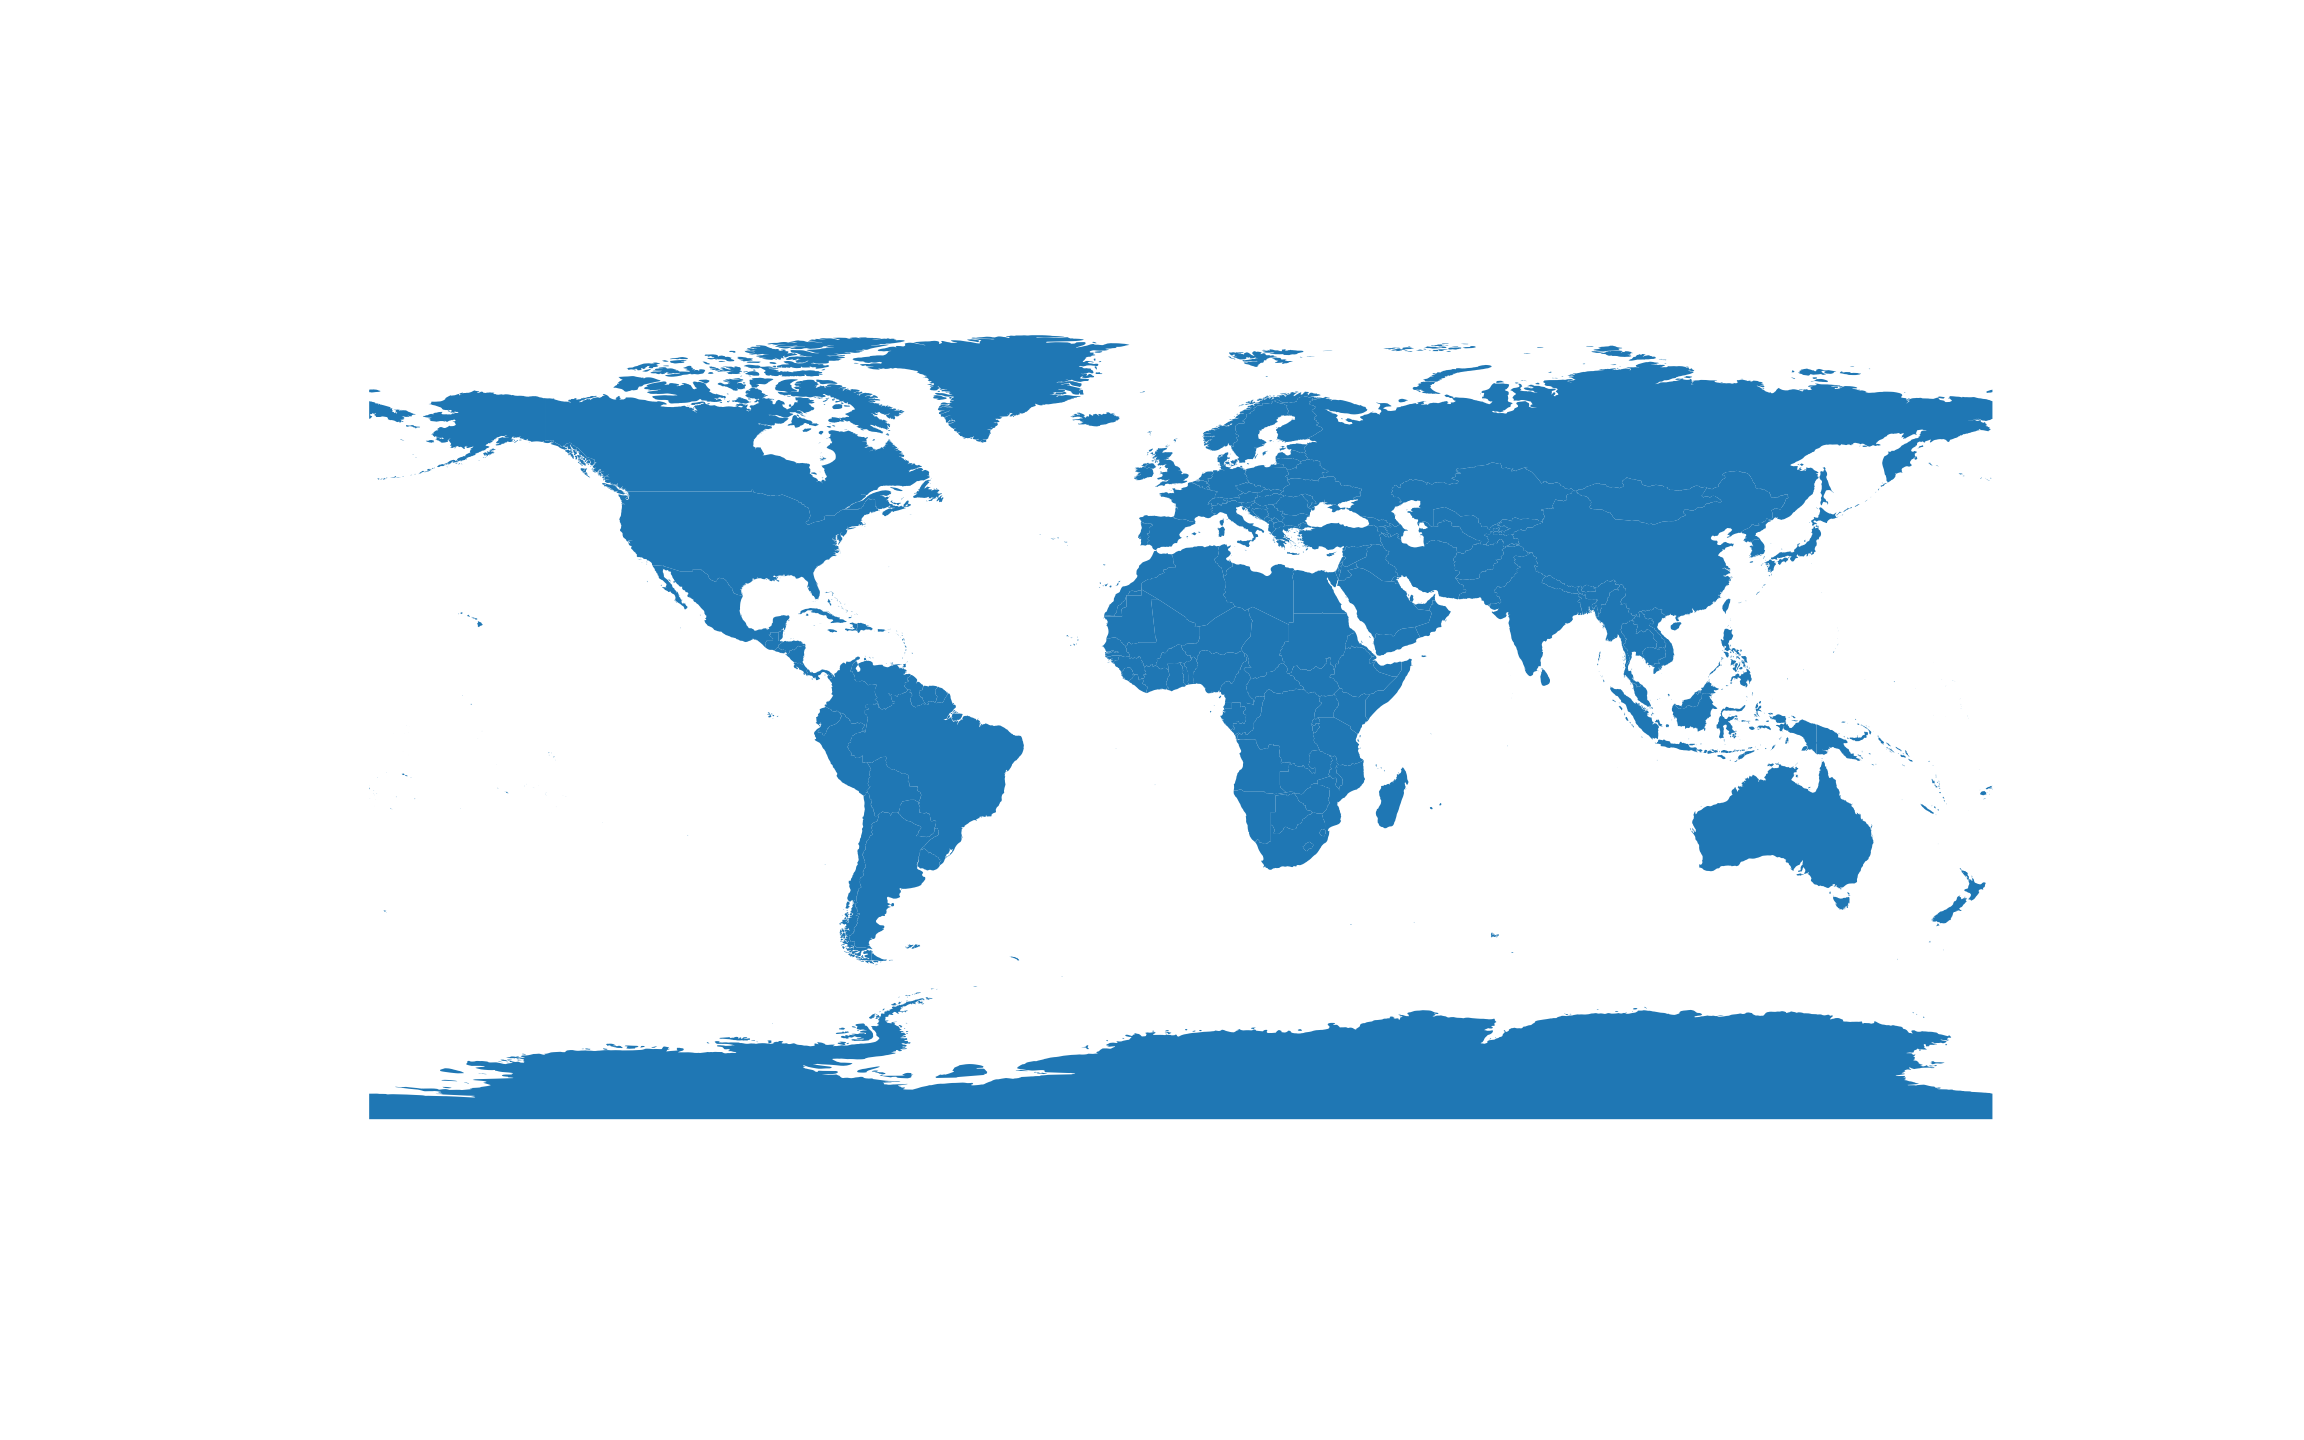
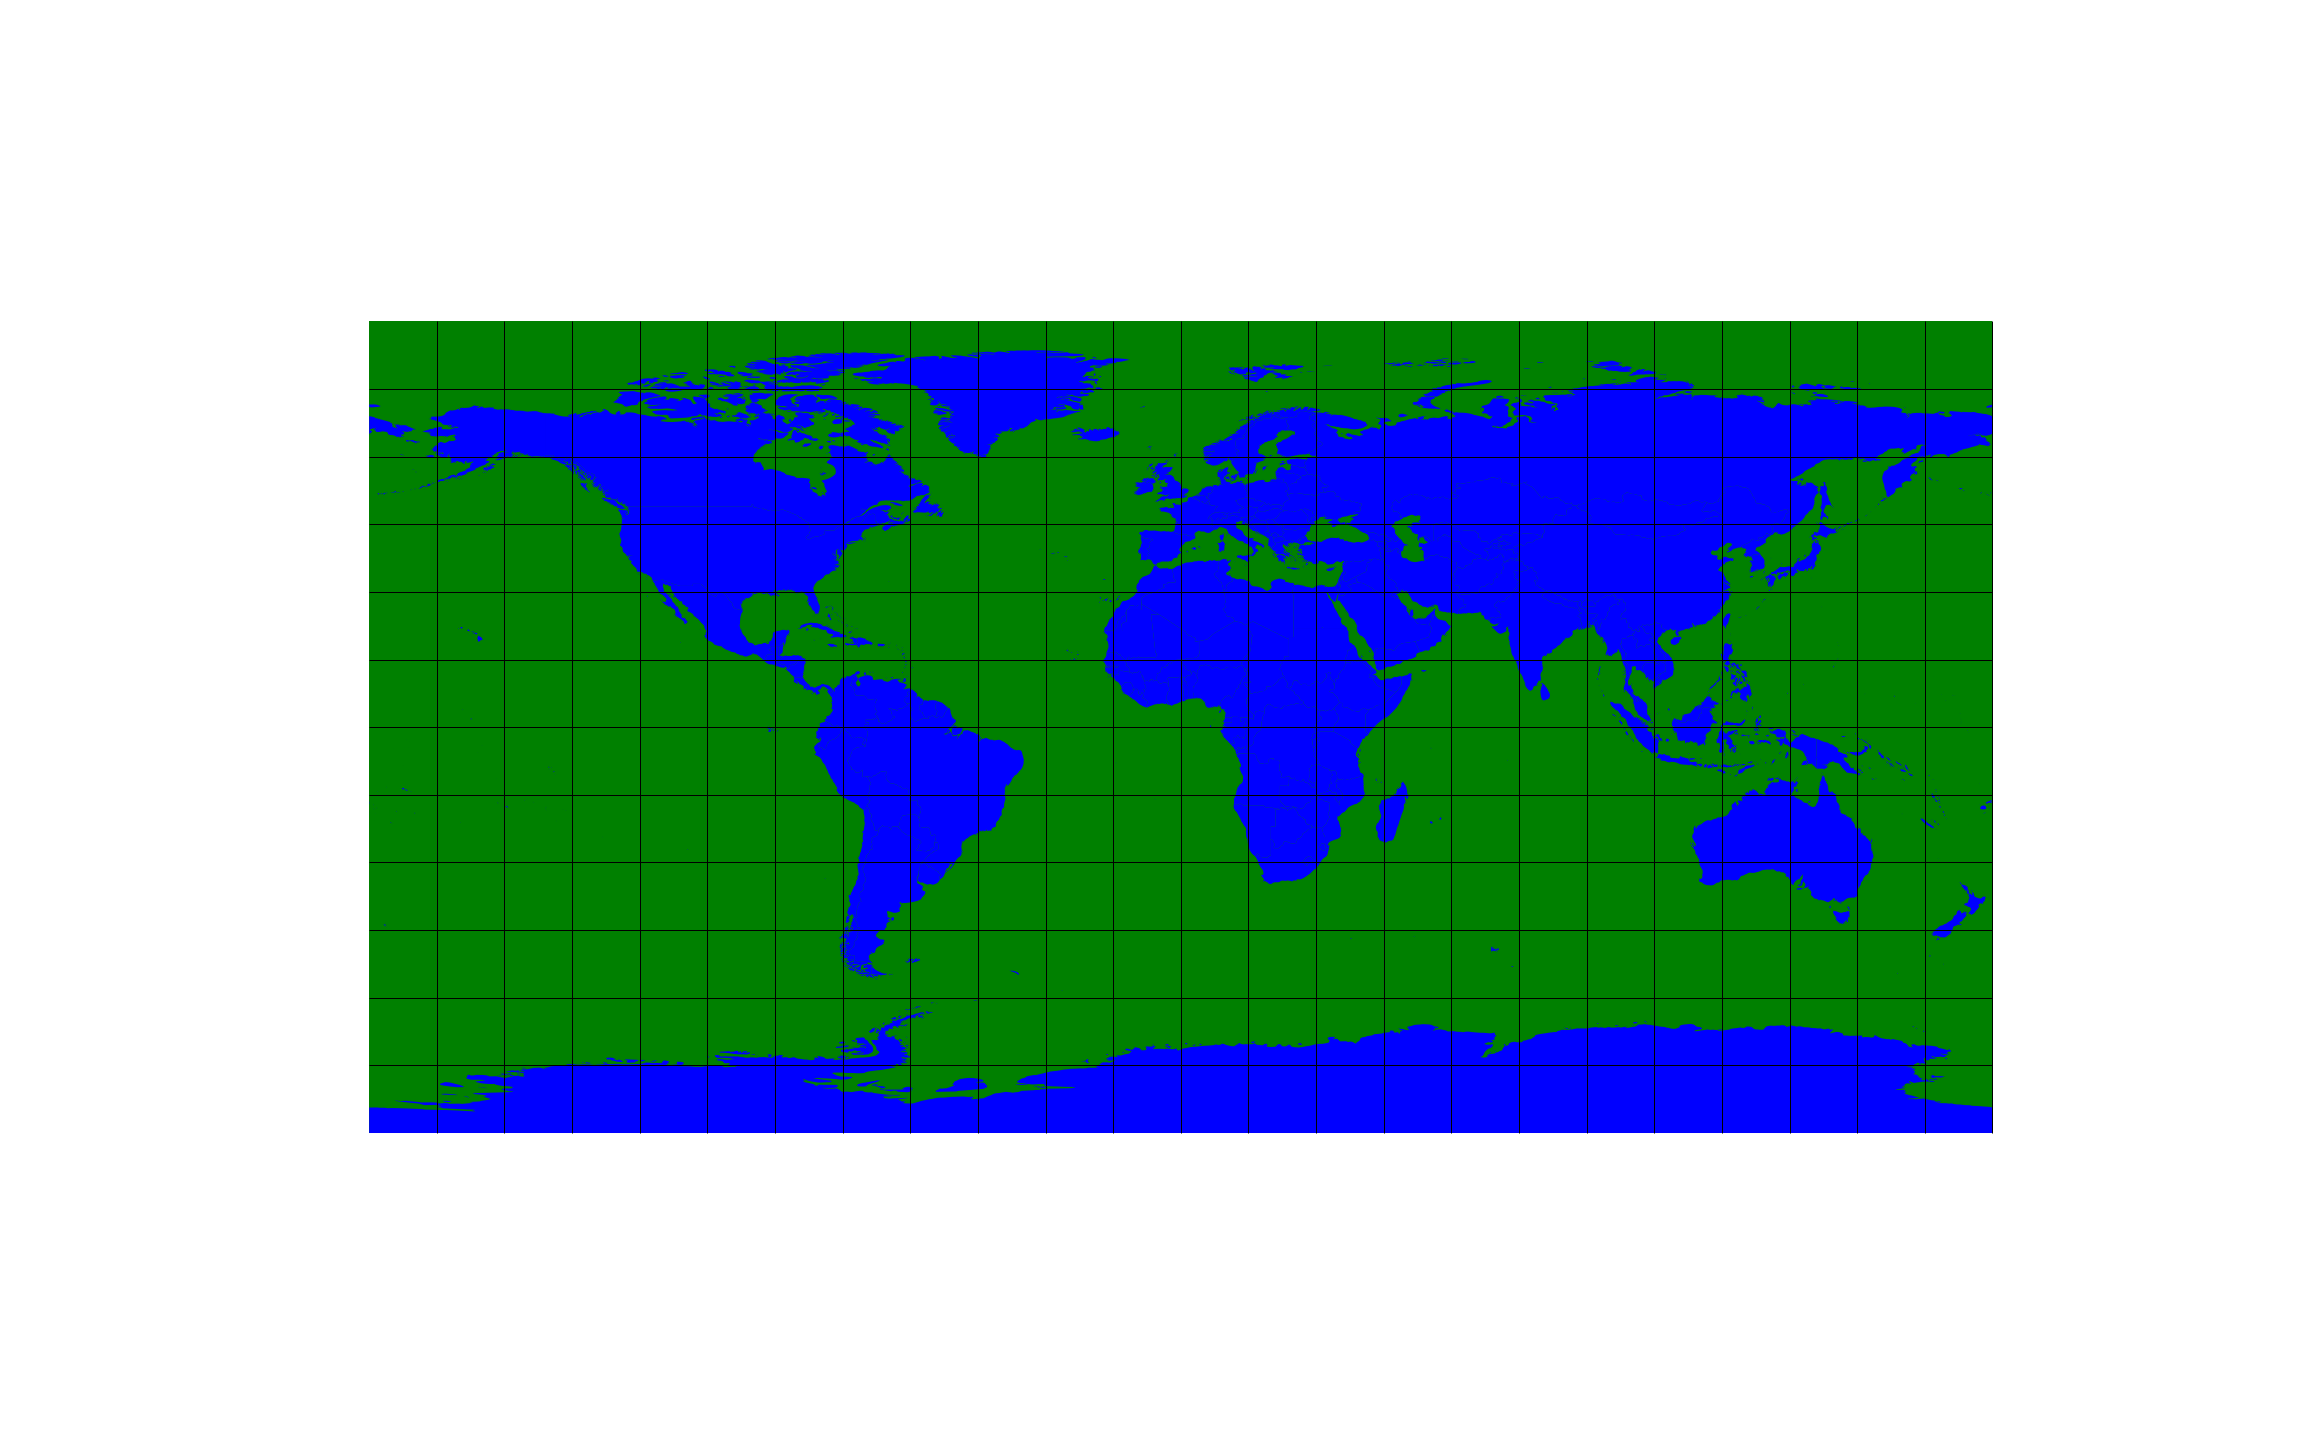
I have added world dataset as GeoDataFrame

diff --git a/week1/week1.py b/week1/week1.py
@@ -12,8 +12,28 @@ my_fig, my_ax = subplots(1, 1, figsize=(16, 10))
 # turn off the visible axes on the map
 my_ax.axis('off')
 
-# plot the countries onto ax
-world.plot(ax = my_ax)
+graticule = read_file("../../data/natural-earth/ne_110m_graticules_15.shp")
+bbox = read_file("../../data/natural-earth/ne_110m_wgs84_bounding_box.shp")
+# add bounding box and graticule layers
+bbox.plot(
+    ax = my_ax,
+    color = 'green',
+    linewidth = 0,
+    )
+
+# plot the countries
+world.plot(
+    ax = my_ax,
+    color = 'blue',
+    linewidth = 0.5,
+    )
+
+# plot the graticule
+graticule.plot(
+    ax = my_ax,
+    color = 'black',
+    linewidth = 0.5,
+    )
 
 # save the result
 savefig('./out/1.png')
